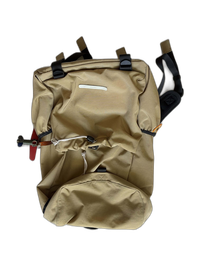
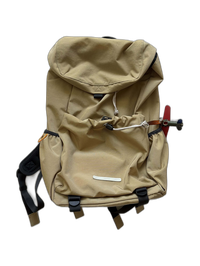
🔄 修复BAG-006/SUN-001缩略图旋转 + transform端点覆盖_cutout_thumb

diff --git a/tools/wechat_control.py b/tools/wechat_control.py
@@ -2995,7 +2995,7 @@ else{{document.getElementById('status').innerHTML='❌ '+d.error;}}
                     return False
             enhanced_dir = os.path.join(PROJECT_DIR, 'wardrobe', 'enhanced')
             if os.path.exists(enhanced_dir):
-                for pattern in [f'{cid}_cutout.*', f'{cid}_thumb.*']:
+                for pattern in [f'{cid}_cutout.*', f'{cid}_cutout_thumb.*', f'{cid}_thumb.*']:
                     for fpath in _glob.glob(os.path.join(enhanced_dir, pattern)):
                         img = _PILImage.open(fpath)
                         w, h = img.size
